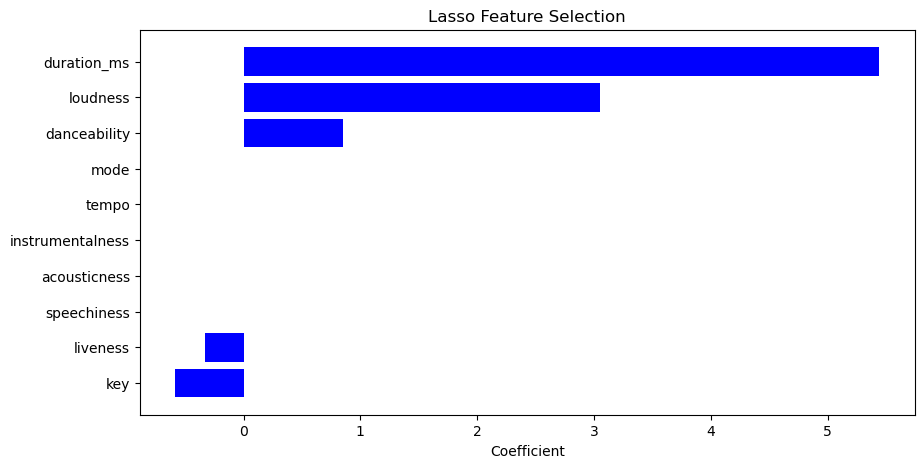
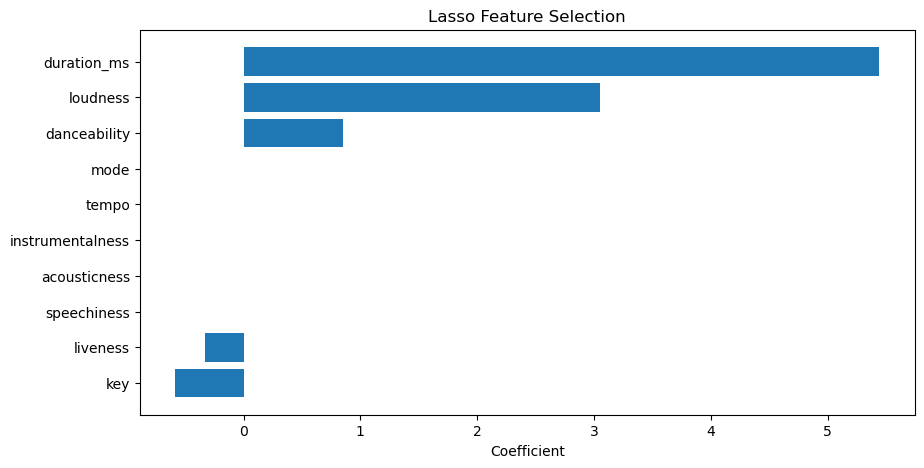
update color of lasso

Changed region(s): [[0.2424, 0.0897, 0.9697, 0.3291], [0.1818, 0.688, 0.2727, 0.8675]]

diff --git a/code/models/lasso_feature_selection.py b/code/models/lasso_feature_selection.py
@@ -31,7 +31,7 @@ feature_importance = pd.DataFrame(
 
 # Plot feature coefficients
 plt.figure(figsize=(10, 5))
-plt.barh(feature_importance["Feature"], feature_importance["Coefficient"], color="blue")
+plt.barh(feature_importance["Feature"], feature_importance["Coefficient"])
 plt.xlabel("Coefficient")
 plt.title("Lasso Feature Selection")
 plt.savefig("images/lasso_feature_selection.png", bbox_inches="tight")
